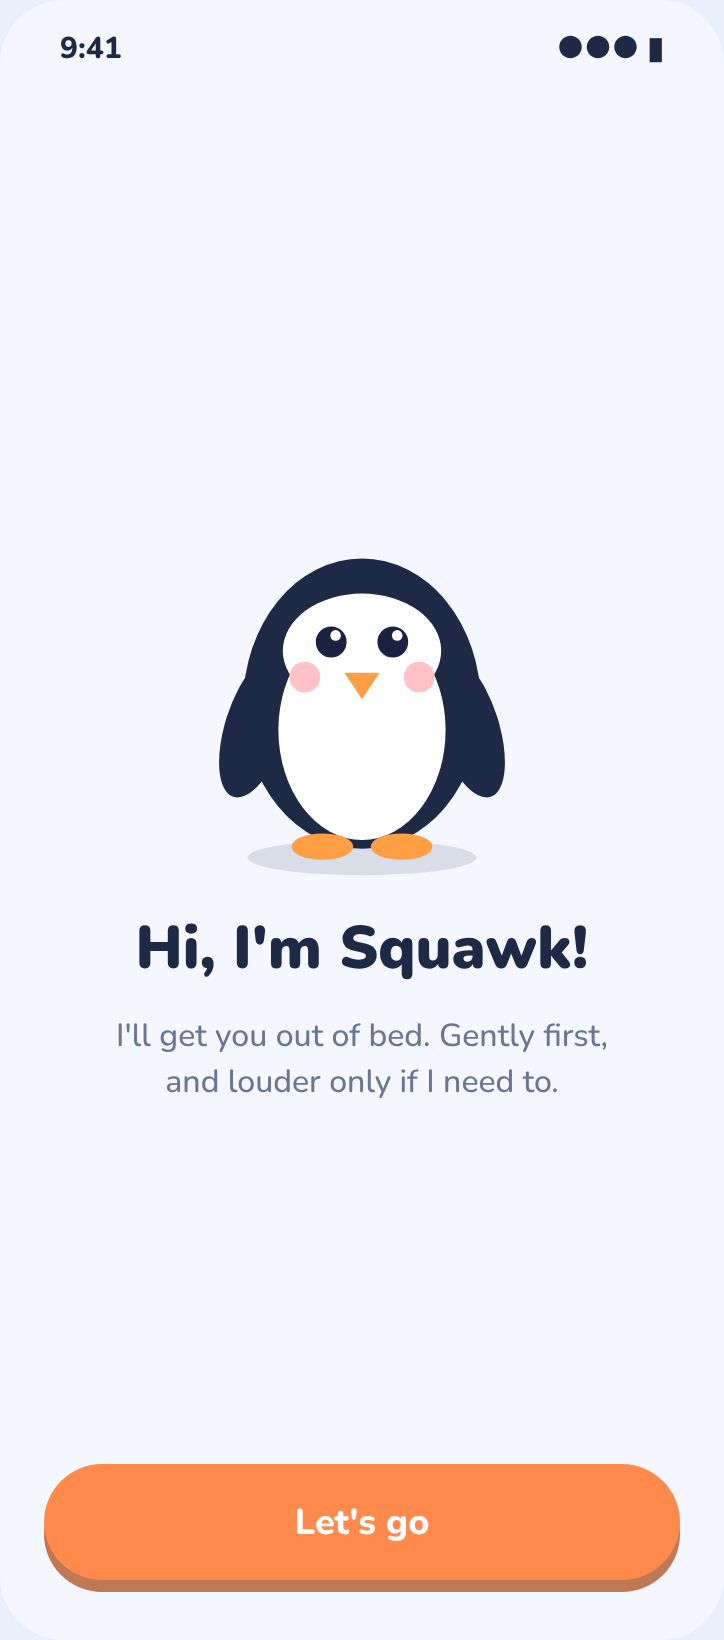
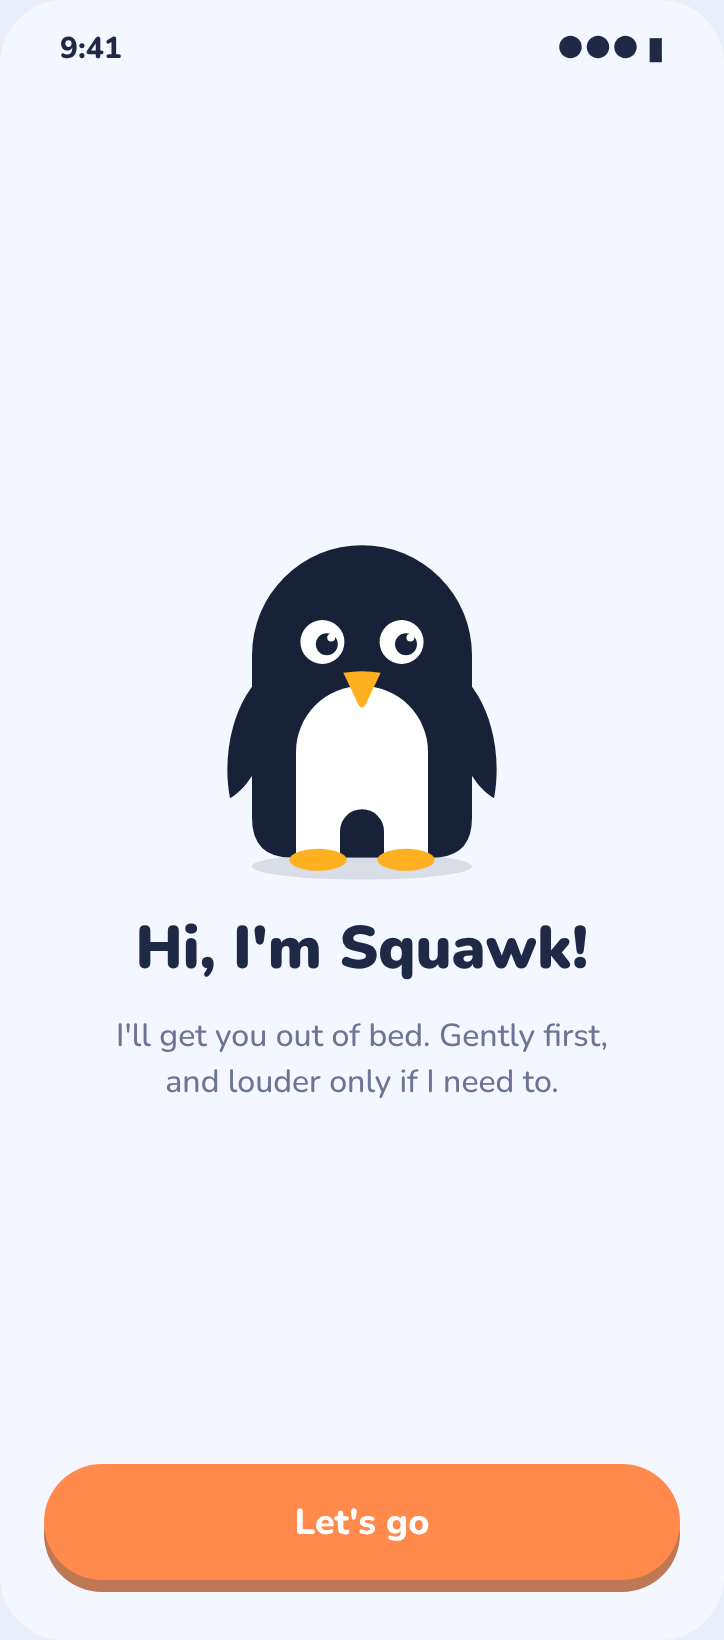
Squawk: use penguin 2 as the mascot in mockups and DESIGN.md
Claude-Session: https://claude.ai/code/session_01GG78N9RoEFEBVmHCToskM4

Changed region(s): [[0.3039, 0.311, 0.6989, 0.5598]]

diff --git a/apps/squawk/design/mockups/squawk.html b/apps/squawk/design/mockups/squawk.html
@@ -7,7 +7,7 @@
 :root{
   --stage:#E9EEFB; --bg:#F4F7FF; --card:#FFFFFF; --ink:#1E2945; --muted:#6B7594; --line:#E1E7F5;
   --accent:#FF8A4C; --accent-ink:#FFFFFF; --sun:#FFC24D; --coral:#FF5C63; --mint:#2FBF96; --ice:#DCE7FF;
-  --peng:#1E2945; --belly:#FFFFFF; --beak:#FF9F43; --cheek:#FFB3B8;
+  --peng:#172239; --belly:#FFFFFF; --beak:#FFB020; --cheek:#FFB3B8;
   --font:ui-rounded,"SF Pro Rounded","Nunito",system-ui,sans-serif;
   --r-lg:28px; --r-md:18px; --r-sm:12px;
   --spring:cubic-bezier(.34,1.56,.64,1);
@@ -15,11 +15,11 @@
 @media (prefers-color-scheme: dark){:root:not([data-theme="light"]){
   --stage:#0A0F20; --bg:#11182E; --card:#1B2443; --ink:#EEF2FF; --muted:#9AA5C6; --line:#28345A;
   --accent:#FF9A5E; --accent-ink:#1A1206; --sun:#FFCD66; --coral:#FF6F75; --mint:#45D3AA; --ice:#24305A;
-  --peng:#2A3762; --belly:#F3F6FF; --beak:#FFA94D; --cheek:#FF9BA2; color-scheme:dark}}
+  --peng:#2A3762; --belly:#F3F6FF; --beak:#FFBE3D; --cheek:#FF9BA2; color-scheme:dark}}
 :root[data-theme="dark"]{
   --stage:#0A0F20; --bg:#11182E; --card:#1B2443; --ink:#EEF2FF; --muted:#9AA5C6; --line:#28345A;
   --accent:#FF9A5E; --accent-ink:#1A1206; --sun:#FFCD66; --coral:#FF6F75; --mint:#45D3AA; --ice:#24305A;
-  --peng:#2A3762; --belly:#F3F6FF; --beak:#FFA94D; --cheek:#FF9BA2; color-scheme:dark}
+  --peng:#2A3762; --belly:#F3F6FF; --beak:#FFBE3D; --cheek:#FF9BA2; color-scheme:dark}
 html,body{height:100%}
 body{background:var(--stage);color:var(--ink);font-family:var(--font);
   padding-left:max(16px,env(safe-area-inset-left,0px));padding-right:max(16px,env(safe-area-inset-right,0px))}
@@ -69,7 +69,7 @@ body{background:var(--stage);color:var(--ink);font-family:var(--font);
 .peng{display:block;margin:0 auto}
 .peng .body{animation:breathe 3.2s ease-in-out infinite;transform-origin:50% 90%}
 @keyframes breathe{50%{transform:scale(1.03,.97)}}
-.peng.wave .wing-r{animation:wave .6s ease-in-out infinite alternate;transform-origin:150px 120px}
+.peng.wave .wing-r{animation:wave .6s ease-in-out infinite alternate;transform-origin:144px 106px}
 @keyframes wave{from{transform:rotate(-10deg)}to{transform:rotate(-55deg)}}
 .peng.hop{animation:hop .7s var(--spring) infinite alternate}
 @keyframes hop{to{transform:translateY(-10px)}}
@@ -190,28 +190,38 @@ function daysLabel(){const d=S.days;const n=d.reduce((a,b)=>a+b,0);
   return["Mon","Tue","Wed","Thu","Fri","Sat","Sun"].filter((_,i)=>d[i]).join(", ")}
 
 /* Penguin, drawn with shapes so every part can move. mood: sleep | awake | proud | grumpy | faint */
+/* Squawk: penguin 2 (rounded bottom, legs to the edge), beak B, mouth F. Cheeks only when proud. */
+const P_BODY="M50 96 A50 50 0 0 1 150 96 V170 Q150 188 132 188 H68 Q50 188 50 170 Z";
+const P_WING="M57 103 C42 115 36 140 40 161 C49 156 56 142 60 127 Z";
+const P_WING_R=P_WING.replace(/(-?\d+(\.\d+)?) (-?\d+(\.\d+)?)/g,(_,x,__,y)=>`${200-x} ${y}`);
 function penguin(mood="awake",size=170,cls=""){
+  const W="var(--belly)",P="var(--peng)",lx=82,rx=118,y=90;
   const eyes={
-    sleep:`<path d="M78 92 q8 6 16 0 M106 92 q8 6 16 0" stroke="var(--ink-eye)" stroke-width="4" fill="none" stroke-linecap="round"/>`,
-    awake:`<circle cx="86" cy="90" r="7" fill="var(--ink-eye)"/><circle cx="114" cy="90" r="7" fill="var(--ink-eye)"/><circle cx="88" cy="87" r="2.4" fill="#fff"/><circle cx="116" cy="87" r="2.4" fill="#fff"/>`,
-    proud:`<path d="M78 92 q8 -8 16 0 M106 92 q8 -8 16 0" stroke="var(--ink-eye)" stroke-width="4" fill="none" stroke-linecap="round"/>`,
-    grumpy:`<path d="M78 86 l16 5 M122 86 l-16 5" stroke="var(--ink-eye)" stroke-width="4" stroke-linecap="round"/><circle cx="87" cy="95" r="5" fill="var(--ink-eye)"/><circle cx="113" cy="95" r="5" fill="var(--ink-eye)"/>`,
-    faint:`<path d="M80 84 l12 12 M92 84 l-12 12 M108 84 l12 12 M120 84 l-12 12" stroke="var(--ink-eye)" stroke-width="4" stroke-linecap="round"/>`
+    sleep:`<path d="M${lx-9} ${y} q9 7 18 0 M${rx-9} ${y} q9 7 18 0" stroke="${W}" stroke-width="5" fill="none" stroke-linecap="round"/>`,
+    awake:`<circle cx="${lx}" cy="${y}" r="10" fill="${W}"/><circle cx="${rx}" cy="${y}" r="10" fill="${W}"/><circle cx="${lx+2}" cy="${y+1}" r="5" fill="${P}"/><circle cx="${rx+2}" cy="${y+1}" r="5" fill="${P}"/><circle cx="${lx+4}" cy="${y-2}" r="1.8" fill="${W}"/><circle cx="${rx+4}" cy="${y-2}" r="1.8" fill="${W}"/>`,
+    proud:`<path d="M${lx-9} ${y+3} q9 -10 18 0 M${rx-9} ${y+3} q9 -10 18 0" stroke="${W}" stroke-width="5" fill="none" stroke-linecap="round"/>`,
+    grumpy:`<circle cx="${lx}" cy="${y}" r="10" fill="${W}"/><circle cx="${rx}" cy="${y}" r="10" fill="${W}"/><circle cx="${lx+1}" cy="${y+3}" r="4.5" fill="${P}"/><circle cx="${rx-1}" cy="${y+3}" r="4.5" fill="${P}"/><path d="M${lx-12} ${y-14} L${lx+12} ${y-4} L${lx+12} ${y-16}Z M${rx+12} ${y-14} L${rx-12} ${y-4} L${rx-12} ${y-16}Z" fill="${P}"/>`,
+    squawk:`<circle cx="${lx}" cy="${y}" r="11" fill="${W}"/><circle cx="${rx}" cy="${y}" r="11" fill="${W}"/><circle cx="${lx}" cy="${y}" r="3.5" fill="${P}"/><circle cx="${rx}" cy="${y}" r="3.5" fill="${P}"/>`,
+    faint:`<path d="M${lx-6} ${y-6} l12 12 M${lx+6} ${y-6} l-12 12 M${rx-6} ${y-6} l12 12 M${rx+6} ${y-6} l-12 12" stroke="${W}" stroke-width="4.5" stroke-linecap="round"/>`
   }[mood];
-  const cap=mood==="sleep"?`<path d="M62 64 Q100 6 140 60 Q100 50 62 64Z" fill="var(--accent)"/><circle cx="146" cy="58" r="9" fill="var(--sun)"/>`:"";
-  const zz=mood==="sleep"?`<text class="zz" x="150" y="40" font-size="22">z</text><text class="zz" x="160" y="30" font-size="16">z</text>`:"";
-  const beak=mood==="proud"||mood==="awake"?`<path d="M92 104 L108 104 L100 116Z" fill="var(--beak)"/>`:`<path d="M92 106 L108 106 L100 112Z" fill="var(--beak)"/>`;
-  return `<svg class="peng ${cls}" width="${size}" height="${size}" viewBox="0 0 200 200" role="img" aria-label="Squawk the penguin, ${mood}" style="--ink-eye:#1A2240">
-    <ellipse cx="100" cy="188" rx="52" ry="8" fill="rgba(20,30,60,.12)"/>
+  const by=104,B="var(--beak)";
+  const beak=mood==="squawk"
+    ?`<path d="M89 ${by+2} Q100 ${by+4} 111 ${by+2} Q108 ${by+15} 100.8 ${by+22} Q100 ${by+23} 99.2 ${by+22} Q92 ${by+15} 89 ${by+2}Z" fill="#4A1526"/><ellipse cx="100" cy="${by+15.5}" rx="5" ry="3" fill="#FF7D8C"/><path d="M88 ${by+3} Q93 ${by+17} 99 ${by+27} Q100 ${by+28.5} 101 ${by+27} Q107 ${by+17} 112 ${by+3} Q107 ${by+14} 100 ${by+21.5} Q93 ${by+14} 88 ${by+3}Z" fill="${B}"/><path d="M88 ${by} Q100 ${by-2} 112 ${by} L101.6 ${by+10.5} Q100 ${by+12.5} 98.4 ${by+10.5}Z" fill="${B}"/>`
+    :`<path d="M91.5 ${by} Q100 ${by-1.5} 108.5 ${by} L101.6 ${by+14.5} Q100 ${by+17} 98.4 ${by+14.5} Z" fill="${B}"/>`;
+  const up=mood==="proud"||mood==="squawk"?30:0;
+  const cheeks=mood==="proud"?`<circle cx="66" cy="110" r="6" fill="var(--cheek)" opacity=".85"/><circle cx="134" cy="110" r="6" fill="var(--cheek)" opacity=".85"/>`:"";
+  const cap=mood==="sleep"?`<path d="M64 70 Q100 0 140 64 Q100 52 64 70Z" fill="var(--accent)"/><circle cx="146" cy="62" r="9" fill="var(--sun)"/>`:"";
+  const zz=mood==="sleep"?`<text class="zz" x="152" y="40" font-size="22">z</text><text class="zz" x="164" y="28" font-size="16">z</text>`:"";
+  return `<svg class="peng ${cls}" width="${size}" height="${size}" viewBox="0 0 200 200" role="img" aria-label="Squawk the penguin, ${mood}">
+    <ellipse cx="100" cy="192" rx="50" ry="6" fill="rgba(20,30,60,.12)"/>
     <g class="body">
-      <ellipse cx="52" cy="128" rx="14" ry="34" fill="var(--peng)" transform="rotate(18 52 128)"/>
-      <g class="wing-r"><ellipse cx="148" cy="128" rx="14" ry="34" fill="var(--peng)" transform="rotate(-18 148 128)"/></g>
-      <ellipse cx="100" cy="118" rx="54" ry="66" fill="var(--peng)"/>
-      <ellipse cx="100" cy="130" rx="38" ry="50" fill="var(--belly)"/>
-      <ellipse cx="100" cy="94" rx="36" ry="26" fill="var(--belly)"/>
-      ${eyes}<circle cx="74" cy="106" r="7" fill="var(--cheek)" opacity=".8"/><circle cx="126" cy="106" r="7" fill="var(--cheek)" opacity=".8"/>
-      ${beak}${cap}
-      <ellipse cx="82" cy="183" rx="14" ry="6" fill="var(--beak)"/><ellipse cx="118" cy="183" rx="14" ry="6" fill="var(--beak)"/>
+      <path d="${P_WING}" fill="${P}" transform="rotate(${up} 56 106)"/>
+      <g class="wing-r"><path d="${P_WING_R}" fill="${P}" transform="rotate(${-up} 144 106)"/></g>
+      <path d="${P_BODY}" fill="${P}"/>
+      <path d="M70 188 V140 A30 30 0 0 1 130 140 V188 Z" fill="${W}"/>
+      <path d="M90 188 V176 A10 10 0 0 1 110 176 V188 Z" fill="${P}"/>
+      ${eyes}${beak}${cheeks}${cap}
+      <ellipse cx="80" cy="189" rx="13" ry="5" fill="${B}"/><ellipse cx="120" cy="189" rx="13" ry="5" fill="${B}"/>
     </g>${zz}</svg>`;
 }
 const fishSvg=c=>`<svg viewBox="0 0 22 12" width="22" height="12"><path d="M0 6 Q8 -2 16 6 Q8 14 0 6Z M16 6 L22 1 L22 11Z" fill="${c}"/></svg>`;

diff --git a/apps/squawk/DESIGN.md b/apps/squawk/DESIGN.md
@@ -26,7 +26,7 @@ different times on some days, Pro pricing).
   labels. Times use tabular numbers so they don't jump.
 - **Shapes:** big round corners (18 to 28 pt), pill buttons with a soft "pressable"
   bottom edge, round day buttons.
-- **App icon idea:** Squawk's round head, beak open mid-squawk, on a sunrise-orange
+- **App icon idea:** Squawk facing you, beak open in its pointy squawk grin, on a sunrise-orange
   background with a tiny nightcap falling off.
 
 ## Screens
@@ -68,15 +68,21 @@ and empty Home (no alarms: penguin awake holding a little alarm clock, "Add your
 
 ## Mascot
 
-Squawk is a small round penguin made of simple shapes (navy body, white belly, orange
-beak and feet, pink cheeks), so every part can animate in SwiftUI.
+Squawk is the Tiny Penguin logo turned to face you: a navy arch body (`#172239`) with
+rounded bottom corners, a white belly window with the leg notch running to the bottom
+edge, golden beak and feet (`#FFB020`), white eyes, and short flippers attached to its
+sides. The beak is narrow with soft corners. When it squawks, the beak opens into a
+pointy grin with a little tongue. Pink cheeks show only when it's proud. Every part is
+a simple shape, so it can animate in SwiftUI. All the options we looked at are in
+`design/mockups/penguins-front.html` (penguin 2 was picked).
 
 | Mood | Looks | Where |
 |---|---|---|
 | Asleep | Closed eyes, orange nightcap, floating "z"s, slow breathing | Home when an alarm is on |
 | Awake | Open eyes, little bounce | Home when no alarm is on, onboarding |
-| Proud | Happy closed eyes, hopping | Good morning (first ring), Pro |
+| Proud | Happy closed eyes, pink cheeks, flippers up, hopping | Good morning (first ring), Pro |
 | Grumpy | Frowning brows | Wake-up check, Good morning after the last ring |
+| Squawk! | Wide eyes, beak open in a pointy grin, flippers up, shaking | App icon idea, store screenshots |
 | Faint | X eyes, flopped over | Good morning after the 10-minute cap |
 
 Outfits (Pro and streak rewards): scarf, beanie, sunglasses, party hat.
